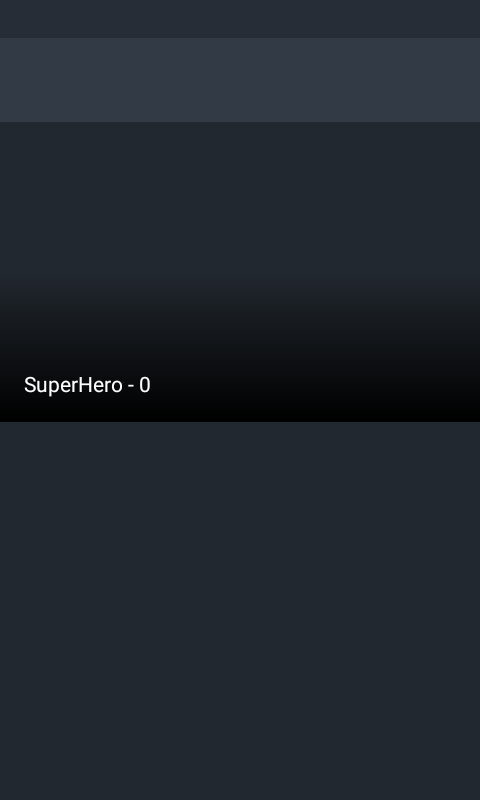
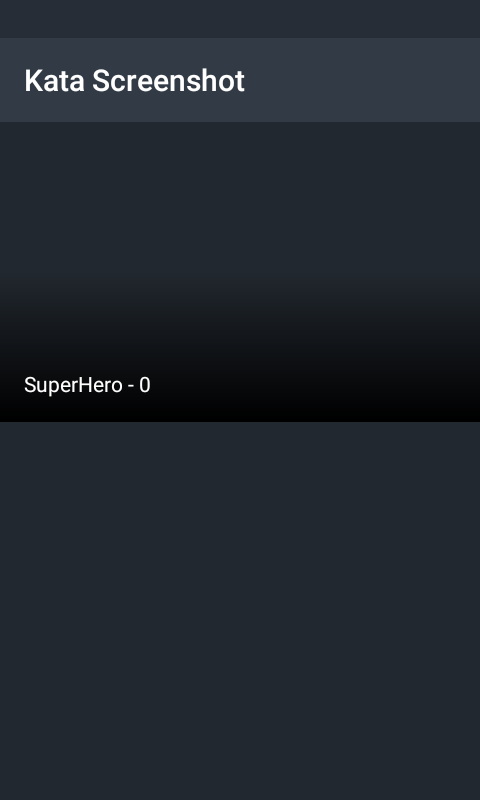
Show the activity title with the appcompat toolbar (#7)
* Install the support toolbar in every activity through the BaseActivity class
* Configure the toolbar title in the super hero detail view to show the super hero name
* Remove error handling and funktional.either dependency as it's one of the extra task we are asking for in the kata

Changed region(s): [[0.0312, 0.0625, 0.5312, 0.125]]

diff --git a/app/src/main/java/com/karumi/ui/view/SuperHeroDetailActivity.kt b/app/src/main/java/com/karumi/ui/view/SuperHeroDetailActivity.kt
@@ -2,6 +2,7 @@ package com.karumi.ui.view
 
 import android.app.Activity
 import android.content.Intent
+import android.support.v7.widget.Toolbar
 import android.view.View
 import com.github.salomonbrys.kodein.Kodein.Module
 import com.github.salomonbrys.kodein.bind
@@ -29,8 +30,14 @@ class SuperHeroDetailActivity : BaseActivity(), SuperHeroDetailPresenter.View {
     override val presenter: SuperHeroDetailPresenter by injector.instance()
 
     override val layoutId: Int = R.layout.super_hero_detail_activity
-    override fun preparePresenter(intent: Intent?) =
-        presenter.preparePresenter(intent?.extras?.getString(SUPER_HERO_NAME_KEY))
+    override val toolbarView: Toolbar
+        get() = toolbar
+
+    override fun preparePresenter(intent: Intent?) {
+        val superHeroName = intent?.extras?.getString(SUPER_HERO_NAME_KEY)
+        title = superHeroName
+        presenter.preparePresenter(superHeroName)
+    }
 
     override fun close() = finish()
 
@@ -52,8 +59,7 @@ class SuperHeroDetailActivity : BaseActivity(), SuperHeroDetailPresenter.View {
 
     override val activityModules = Module(allowSilentOverride = true) {
         bind<SuperHeroDetailPresenter>() with provider {
-            SuperHeroDetailPresenter(this@SuperHeroDetailActivity,
-                instance())
+            SuperHeroDetailPresenter(this@SuperHeroDetailActivity, instance())
         }
         bind<GetSuperHeroByName>() with provider { GetSuperHeroByName(instance()) }
     }

diff --git a/app/src/main/java/com/karumi/ui/presenter/SuperHeroesPresenter.kt b/app/src/main/java/com/karumi/ui/presenter/SuperHeroesPresenter.kt
@@ -1,21 +1,14 @@
 package com.karumi.ui.presenter
 
-import android.util.Log
 import co.metalab.asyncawait.async
 import com.karumi.common.weak
 import com.karumi.domain.model.SuperHero
 import com.karumi.domain.usecase.GetSuperHeroes
 import com.karumi.ui.LifecycleSubscriber
-import org.funktionale.either.Either.Left
-import org.funktionale.either.Either.Right
 
 class SuperHeroesPresenter(
         view: View,
         private val getSuperHeroes: GetSuperHeroes) : LifecycleSubscriber {
-
-    companion object {
-        private val TAG: String = "SuperHeroesPresenter"
-    }
 
     private val view: View? by weak(view)
 
@@ -28,9 +21,8 @@ class SuperHeroesPresenter(
         val result = await { getSuperHeroes() }
         view?.hideLoading()
         when {
-            result is Right && result.r.isEmpty() -> view?.showEmptyCase()
-            result is Right && result.r.isNotEmpty() -> view?.showSuperHeroes(result.r)
-            result is Left -> Log.d(TAG, "There was an error")
+            result.isEmpty() -> view?.showEmptyCase()
+            else -> view?.showSuperHeroes(result)
         }
     }
 
@@ -42,6 +34,5 @@ class SuperHeroesPresenter(
         fun showLoading()
         fun showEmptyCase()
         fun openDetail(name: String)
-
     }
 }

diff --git a/app/src/main/java/com/karumi/ui/presenter/SuperHeroDetailPresenter.kt b/app/src/main/java/com/karumi/ui/presenter/SuperHeroDetailPresenter.kt
@@ -1,22 +1,15 @@
 package com.karumi.ui.presenter
 
-import android.util.Log
 import co.metalab.asyncawait.async
 import com.karumi.common.weak
 import com.karumi.domain.model.SuperHero
 import com.karumi.domain.usecase.GetSuperHeroByName
 import com.karumi.ui.LifecycleSubscriber
-import org.funktionale.either.Either.Left
-import org.funktionale.either.Either.Right
 
 class SuperHeroDetailPresenter(
         view: View,
         private val getSuperHeroByName: GetSuperHeroByName) :
         LifecycleSubscriber {
-
-    companion object {
-        private val TAG = "SuperHeroDetail"
-    }
 
     private val view: View? by weak(view)
 
@@ -38,10 +31,7 @@ class SuperHeroDetailPresenter(
     private fun refreshSuperHeroes() = async {
         val result = await { getSuperHeroByName(name) }
         view?.hideLoading()
-        when (result) {
-            is Right -> view?.showSuperHero(result.r)
-            is Left -> Log.d(SuperHeroDetailPresenter.TAG, "There was an error")
-        }
+        view?.showSuperHero(result)
     }
 
     interface View {

diff --git a/app/src/main/java/com/karumi/ui/view/BaseActivity.kt b/app/src/main/java/com/karumi/ui/view/BaseActivity.kt
@@ -2,6 +2,7 @@ package com.karumi.ui.view
 
 import android.content.Intent
 import android.os.Bundle
+import android.support.v7.widget.Toolbar
 import com.github.salomonbrys.kodein.Kodein.Module
 import com.github.salomonbrys.kodein.android.KodeinAppCompatActivity
 import com.karumi.asApp
@@ -13,12 +14,14 @@ abstract class BaseActivity : KodeinAppCompatActivity(), LifecyclePublisher by l
 
     abstract val layoutId: Int
     abstract val presenter: LifecycleSubscriber
+    abstract val toolbarView: Toolbar
     abstract val activityModules: Module
 
     override fun onCreate(savedInstanceState: Bundle?) {
         applicationContext.asApp().addModule(activityModules)
         super.onCreate(savedInstanceState)
         setContentView(layoutId)
+        setSupportActionBar(toolbarView)
         register(presenter)
         preparePresenter(intent)
         initialize()

diff --git a/app/src/main/java/com/karumi/ui/view/MainActivity.kt b/app/src/main/java/com/karumi/ui/view/MainActivity.kt
@@ -2,6 +2,7 @@ package com.karumi.ui.view
 
 import android.os.Bundle
 import android.support.v7.widget.LinearLayoutManager
+import android.support.v7.widget.Toolbar
 import android.view.View
 import com.github.salomonbrys.kodein.Kodein.Module
 import com.github.salomonbrys.kodein.bind
@@ -19,6 +20,8 @@ class MainActivity : BaseActivity(), SuperHeroesPresenter.View {
     override val presenter: SuperHeroesPresenter by injector.instance()
     private lateinit var adapter: SuperHeroesAdapter
     override val layoutId: Int = R.layout.main_activity
+    override val toolbarView: Toolbar
+        get() = toolbar
 
     override fun onCreate(savedInstanceState: Bundle?) {
         super.onCreate(savedInstanceState)

diff --git a/app/src/main/java/com/karumi/domain/usecase/GetSuperHeroByName.kt b/app/src/main/java/com/karumi/domain/usecase/GetSuperHeroByName.kt
@@ -2,10 +2,8 @@ package com.karumi.domain.usecase
 
 import com.karumi.data.repository.SuperHeroRepository
 import com.karumi.domain.model.SuperHero
-import org.funktionale.either.Either
 
-class GetSuperHeroByName(val superHeroesRepository: SuperHeroRepository) {
+class GetSuperHeroByName(private val superHeroesRepository: SuperHeroRepository) {
 
-    operator fun invoke(name: String): Either<Error, SuperHero> =
-        Either.right(superHeroesRepository.getByName(name))
+    operator fun invoke(name: String): SuperHero = superHeroesRepository.getByName(name)
 }

diff --git a/app/src/main/java/com/karumi/domain/usecase/GetSuperHeroes.kt b/app/src/main/java/com/karumi/domain/usecase/GetSuperHeroes.kt
@@ -2,10 +2,8 @@ package com.karumi.domain.usecase
 
 import com.karumi.data.repository.SuperHeroRepository
 import com.karumi.domain.model.SuperHero
-import org.funktionale.either.Either
 
-class GetSuperHeroes(val superHeroesRepository: SuperHeroRepository) {
+class GetSuperHeroes(private val superHeroesRepository: SuperHeroRepository) {
 
-    operator fun invoke(): Either<Error, List<SuperHero>> =
-        Either.right(superHeroesRepository.getAllSuperHeroes())
+    operator fun invoke(): List<SuperHero> = superHeroesRepository.getAllSuperHeroes()
 }
